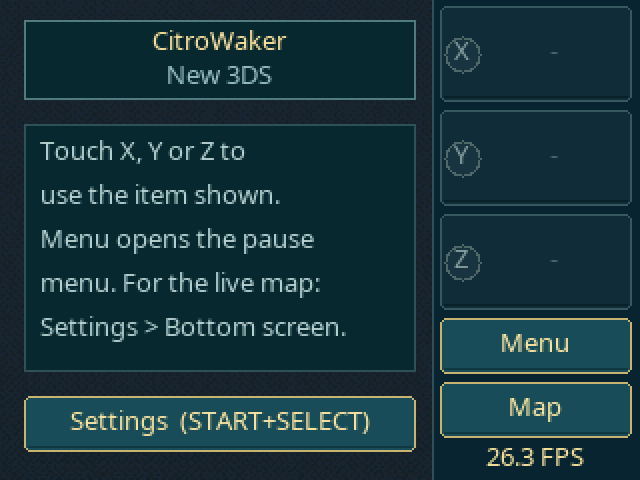
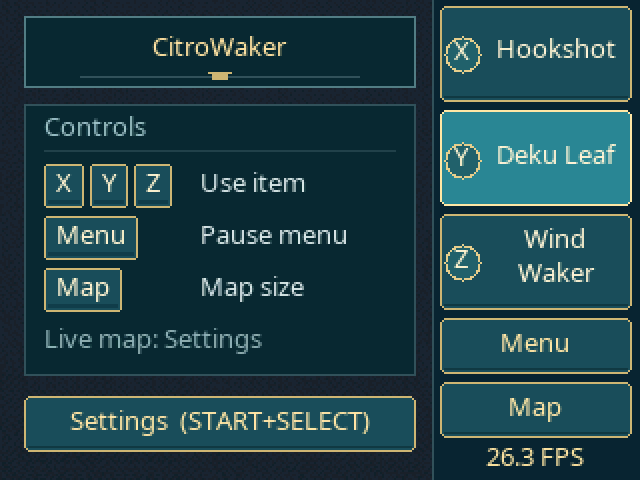
v139: allocator borrowing, bottom panel control legend, v138 console results

Changed region(s): [[0.0312, 0.0312, 0.6562, 0.7812], [0.6875, 0.0, 1.0, 0.6562]]

diff --git a/port/3ds/src/main_3ds.cpp b/port/3ds/src/main_3ds.cpp
@@ -132,7 +132,7 @@ int main(int, char**) {
     n3dsLog("[cpu-mode] New3DS speedup 1 requested clock/L2 3 service %08lx configure %08lx\n",(unsigned long)cpuServiceResult,(unsigned long)cpuConfigureResult);
   }else n3dsLog("[cpu-mode] New3DS check %08lx result %d\n",(unsigned long)cpuModelResult,int(cpuIsNew));
 
-  n3dsLog("[build] CitroWaker v138 (Claude): GX FIFO writers inlined in game code; frame-end busy loop replaced by one division; collision scans stop at the last used element; no zero-fill of fully written joint/pane matrices; bottom panel left side cached. v137: MTXConcat reads inputs once (bit-identical, ~3x fewer instructions), frame pointer omitted. v136: paint pacing paints whenever the renderer can (fractional budget on: ~40 ms frames give 25 fps, not 15). v135: settings menu saves on hardware (rename onto an existing file failed with ENOENT); bottom-screen touch panel (X/Y/Z items, Menu, Map, Settings) working in panel and live-map modes. v134: 3.5 MB more memory for the renderer (smaller game heaps, measured over 8 areas). v133: texture pack on by default, self-checking (switches off if slower than converting). v132: VRAM report for dropped shadow copies. v131: night-sky stars drawn as one batch (file select: ~2000 draws -> ~100) and visible again (3-vertex quads = one triangle, as on GameCube); text glyphs of a string share one draw. v130: real shadows back (a failed copy no longer skips its clear: no grey silhouettes). v129: title music no longer waits behind big disc loads (DVD reads by size, large reads in 256 KB pieces); live map frame hidden on top; round shadows by default (grey silhouette blobs). v128: fast allocator capped at 64 spans (4 MB) so long sessions keep heap for draw replay. v127: runtime textures; fractional pacing and rigid clip OFF by default: full-width telescope covers; replay cache trims under pressure; prior v122: matrix groups replay from the previous frame, texture checks once per frame, resident geometry by pointer, interned uniform names, compile-cache hash halved, matrix slot memo, moving collision skips plane re-classification on pure translations. v121: <=2 logic ticks per painted frame, no catch-up bursts, present hold off\n");
+  n3dsLog("[build] CitroWaker v139 (Claude): fast allocator borrows larger free blocks instead of falling back to the locked heap; bottom panel control legend; N3DS_AB_KNOBS console A/B. v138: GX FIFO writers inlined in game code; frame-end busy loop replaced by one division; collision scans stop at the last used element; no zero-fill of fully written joint/pane matrices; bottom panel left side cached. v137: MTXConcat reads inputs once (bit-identical, ~3x fewer instructions), frame pointer omitted. v136: paint pacing paints whenever the renderer can (fractional budget on: ~40 ms frames give 25 fps, not 15). v135: settings menu saves on hardware (rename onto an existing file failed with ENOENT); bottom-screen touch panel (X/Y/Z items, Menu, Map, Settings) working in panel and live-map modes. v134: 3.5 MB more memory for the renderer (smaller game heaps, measured over 8 areas). v133: texture pack on by default, self-checking (switches off if slower than converting). v132: VRAM report for dropped shadow copies. v131: night-sky stars drawn as one batch (file select: ~2000 draws -> ~100) and visible again (3-vertex quads = one triangle, as on GameCube); text glyphs of a string share one draw. v130: real shadows back (a failed copy no longer skips its clear: no grey silhouettes). v129: title music no longer waits behind big disc loads (DVD reads by size, large reads in 256 KB pieces); live map frame hidden on top; round shadows by default (grey silhouette blobs). v128: fast allocator capped at 64 spans (4 MB) so long sessions keep heap for draw replay. v127: runtime textures; fractional pacing and rigid clip OFF by default: full-width telescope covers; replay cache trims under pressure; prior v122: matrix groups replay from the previous frame, texture checks once per frame, resident geometry by pointer, interned uniform names, compile-cache hash halved, matrix slot memo, moving collision skips plane re-classification on pure translations. v121: <=2 logic ticks per painted frame, no catch-up bursts, present hold off\n");
   // (Claude) The game needs the New 3DS's 124 MB mode (the CIA's exheader asks for it; the HOME Menu applies it when it starts the title).
   // Started some other way the console can stay in the 64 MB mode, where the game's memory does not fit: relaunch this title once through
   // APT (the system switches modes when it has to), and if that did not help either, say so on the screen instead of freezing.
@@ -366,6 +366,8 @@ static uint8_t g_spanClass[2048];                     // (p - g_base) >> 16 -> c
 static std::atomic<unsigned> g_spans{0};
 static std::atomic<bool> g_on{false};
 std::atomic<unsigned long> g_fallbacks{0};
+static std::atomic<unsigned long> g_borrowed{0}, g_classFallbacks[kClasses];
+std::atomic<bool> g_borrowOn{true};   // (Claude v139) N3DS_AB_KNOBS switches it (gpu_3ds.cpp)   // (Claude v139) larger-class blocks handed out; fallbacks per class
 struct Cache { Block* head[kClasses] = {}; uint16_t n[kClasses] = {}; };
 static thread_local Cache t_cache;
 static inline int spanClassOf(const void* p) {
@@ -400,7 +402,22 @@ static inline void* alloc(size_t n) {
   if (!t.head[c]) {
     Central& C = g_central[c];
     LightLock_Lock(&C.lock); const bool ok = refill(c); LightLock_Unlock(&C.lock);
-    if (!ok) { g_fallbacks.fetch_add(1, std::memory_order_relaxed); return nullptr; }
+    if (!ok) {
+      // (Claude v139) span budget used up and this class empty: a free block of a larger class (up to 4x the size) instead of a
+      // locked newlib malloc. Exact: free() finds the class from the block's span, so the block goes back where it came from.
+      if (g_borrowOn.load(std::memory_order_relaxed)) for (int c2 = c + 1; c2 < kClasses && kSize[c2] <= 4 * kSize[c]; c2++) {
+        if (!t.head[c2]) {
+          Central& C2 = g_central[c2];
+          if (!C2.head && C2.bump + kSize[c2] > C2.end) continue;   // nothing there (unlocked peek; refill below re-checks)
+          LightLock_Lock(&C2.lock); const bool ok2 = refill(c2); LightLock_Unlock(&C2.lock);
+          if (!ok2) continue;
+        }
+        Block* b = t.head[c2]; t.head[c2] = b->next; t.n[c2]--;
+        g_borrowed.fetch_add(1, std::memory_order_relaxed);
+        return b;
+      }
+      g_fallbacks.fetch_add(1, std::memory_order_relaxed); g_classFallbacks[c].fetch_add(1, std::memory_order_relaxed); return nullptr;
+    }
   }
   Block* b = t.head[c]; t.head[c] = b->next; t.n[c]--;
   return b;
@@ -429,7 +446,14 @@ void n3dsFastAllocEnable(bool on, int maxSpans) {
   fa::g_on.store(true);
   n3dsLog("[fast-alloc] on: classes <= 1024 B, at most %u spans of 64 KB\n", fa::kFaMaxSpans);
 }
-void n3dsFastAllocLog() { n3dsLog("[fast-alloc] spans %u (%u KB), fallbacks %lu\n", fa::g_spans.load(), unsigned(fa::g_spans.load() * 64), fa::g_fallbacks.load()); }
+void n3dsFastAllocBorrow(bool on) { fa::g_borrowOn.store(on, std::memory_order_relaxed); }
+void n3dsFastAllocLog() {
+  unsigned perClass[fa::kClasses] = {};
+  for (uint8_t v : fa::g_spanClass) if (v) perClass[v - 1]++;
+  char cls[256]; int at = 0;
+  for (int c = 0; c < fa::kClasses; c++) at += std::snprintf(cls + at, sizeof cls - at, " %u:%u/%lu", unsigned(fa::kSize[c]), perClass[c], fa::g_classFallbacks[c].load());
+  n3dsLog("[fast-alloc] spans %u (%u KB), fallbacks %lu, borrowed %lu; size:spans/fallbacks%s\n", fa::g_spans.load(), unsigned(fa::g_spans.load() * 64), fa::g_fallbacks.load(), fa::g_borrowed.load(), cls);
+}
 extern "C" {
 // (Claude v86) the renderer's block pools (uniform blocks, event nodes) keep freed blocks; when newlib cannot satisfy a request they are handed back first
 void n3dsPoolsTrim(void);   // gpu_3ds.cpp

diff --git a/port/3ds/src/gpu_3ds.cpp b/port/3ds/src/gpu_3ds.cpp
@@ -74,7 +74,7 @@ extern "C" volatile unsigned g_n3dsShapeGen;   // (Claude v95) JKRHeap.cpp: mode
 extern "C" char* fake_heap_end;
 extern "C" { extern volatile int g_n3dsDlCensusOpen; void n3dsDlCensusWrite(const char*); }   // origin_prof_3ds.cpp (Claude v92)
 extern "C" void n3dsLockStatsLog(unsigned long frame); extern "C" void n3dsAllocSitesLog(unsigned long frame);   // main_3ds.cpp (Claude v74)
-void n3dsFastAllocEnable(bool on, int maxSpans = 0); void n3dsFastAllocLog();   // main_3ds.cpp (Claude v76)   // libctru: the end of the heap sbrk extends into
+void n3dsFastAllocEnable(bool on, int maxSpans = 0); void n3dsFastAllocLog(); void n3dsFastAllocBorrow(bool on);   // main_3ds.cpp (Claude v76)   // libctru: the end of the heap sbrk extends into
 static size_t brkRoom() { char* brk=(char*)sbrk(0); return brk && brk!=(char*)-1 && brk<fake_heap_end ? size_t(fake_heap_end-brk) : 0; }
 static uint64_t g_originTicks[2], g_originBytes[2], g_originDraws[2], g_originVerts[2], g_originCalls[2];
 static size_t g_minBrkRoom = ~size_t(0);   // lowest sbrk room seen by heapRoom since the last [pipeline] log
@@ -891,6 +891,14 @@ void n3dsGpuEndFrameLocal(void) {
   // (Claude v77) built-in A/B (auto_ab): both configurations give the same pixels; alternate them in 120-frame blocks so one play session measures both
   const int abSide=g_perf.autoAb?int((logFrame/120)&1):-1;
   // (Claude v83) the A/B switches nothing (see finishRecording); both blocks are logged
+  // (Claude v139) env N3DS_AB_KNOBS=1: console A/B of exact runtime options in one session, 300-frame phases cycling
+  // 0 = defaults, 1 = fast-alloc borrowing off, 2 = pack_vertex_major on, 3 = decode_overwrite on; "[ab-knobs]" lines
+  static const bool knobAb = std::getenv("N3DS_AB_KNOBS") != nullptr;
+  const int knob = knobAb ? int((logFrame / 300) % 4) : -1;
+  static const char* const kKnobNames[4] = {"defaults", "borrow off", "pack_vertex_major", "decode_overwrite"};
+  if (knob >= 0) { static int cur = -1;
+    if (knob != cur) { cur = knob; n3dsFastAllocBorrow(knob != 1); t2p::g_packVertexMajor = knob == 2 || g_perf.packVertexMajor;
+      t2p::g_decodedInitMode = (knob == 3 || g_perf.decodeOverwrite) ? 1 : 0; n3dsLog("[ab-knobs] frame %lu: config %d (%s)\n", (unsigned long)logFrame, knob, kKnobNames[knob]); } }
   if (g_r3dsTrace) g_r3dsTrace("end-frame: before renderFrame", 0);
   {   // (Claude v97) N3DS_AB_CYCLE: draw reuse switched here, on the render owner, between frames
     static int cur = -1; const int want = g_abDrawReuse.load();
@@ -918,6 +926,12 @@ void n3dsGpuEndFrameLocal(void) {
       for(int s=0;s<2;s++){const double n=abFrames[s]?abFrames[s]:1,m=abTimed[s]?abTimed[s]:1;
         n3dsLog("[ab] frame %lu side %d (%s): %u frames render %.2f present %.2f (%.2f fps) process %.2f ms; %u timed: build %.2f plan %.2f draw %.2f ms\n",(unsigned long)logFrame,s,s?"block B":"block A",abFrames[s],abRender[s]/n,abPresent[s]/n,abPresent[s]>0?1000.0*n/abPresent[s]:0.0,abProcess[s]/n,abTimed[s],abBuild[s]/m,abPlan[s]/m,abDraw[s]/m);}
     }
+  }
+  if (knob >= 0) {   // (Claude v139) per configuration: gameplay frames (100+ draws), the first 15 of each phase skipped
+    static double kP[4], kR[4], kQ[4]; static uint32_t kN[4];
+    if (F.draws >= 100 && logFrame % 300 >= 15 && presentMs > 0) { kP[knob] += presentMs; kR[knob] += renderMs; kQ[knob] += processMs; ++kN[knob]; }
+    if (logFrame % 1200 == 0) for (int s = 0; s < 4; s++) { const double n = kN[s] ? kN[s] : 1;
+      n3dsLog("[ab-knobs] frame %lu config %d (%s): %u frames present %.2f ms (%.2f fps) render %.2f process %.2f ms\n", (unsigned long)logFrame, s, kKnobNames[s], kN[s], kP[s] / n, kP[s] > 0 ? 1000.0 * n / kP[s] : 0.0, kR[s] / n, kQ[s] / n); }
   }
   if(presentMs>0){g_presentSum+=presentMs;++g_presentCount;g_presentMin=std::min(g_presentMin,presentMs);g_presentMax=std::max(g_presentMax,presentMs);}
   g_mem.frozen=false;

diff --git a/port/3ds/src/bottom_panel_3ds.h b/port/3ds/src/bottom_panel_3ds.h
@@ -111,8 +111,8 @@ inline void composeColumn(citro_settings::Canvas& c,const State& s){
     const int dy=pressed?1:0;
     if(i<3){
       badge(c,r.x+11,r.y+r.h/2+dy,keys[i],enabled);
-      const int tx=r.x+21,tw=r.w-23;
-      if(!has){c.center(tx,r.y+r.h/2-9+dy,tw,"-",0x52686c);continue;}
+      const int tx=r.x+23,tw=r.w-26;
+      if(!has){c.center(tx,r.y+r.h/2-9+dy,tw,"Empty",0x4d6569);continue;}
       char lines[2][40];const int n=wrap2(c,itemName(id),tw,lines);
       const unsigned col=enabled?0xfdf3d2:0x7d9397;
       if(n==1)c.center(tx,r.y+r.h/2-10+dy,tw,lines[0],col);
@@ -124,15 +124,33 @@ inline void composeColumn(citro_settings::Canvas& c,const State& s){
   if(s.fps)c.center(kGpuRows,221,320-kGpuRows,s.fpsText,0xffe6a3);
 }
 
+// A small key cap: rounded box around a label; returns its width.
+inline int keycap(citro_settings::Canvas& c,int x,int y,const char* label){
+  const int w=c.width(label)+12;
+  c.rect(x+1,y,w-2,22,0xc9b673);c.rect(x,y+1,w,20,0xc9b673);
+  c.rect(x+1,y+1,w-2,20,0x1d4f5c);c.rect(x+2,y+18,w-4,2,0x163f4a);
+  c.text(x+6,y+2,label,0xfff4cf,w);
+  return w;
+}
+
 // The left area for the CPU panel (no live map).
+// (Claude v139) header with an accent rule, a control legend of key caps instead of prose, one hint line, Settings button.
 inline void composeLeft(citro_settings::Canvas& c,const uint16_t* cloth,const State& s){
   for(int x=0;x<kGpuRows;++x)std::memcpy(c.pixels+x*240,cloth+x*240,240*2);
-  c.rect(12,10,196,40,0x0d2936);c.frame(12,10,196,40,0x547c85);
-  c.center(12,13,196,"CitroWaker",0xffe3a1);
-  c.center(12,30,196,"New 3DS",0x9dc1c6);
-  c.rect(12,62,196,124,0x0d2936);c.frame(12,62,196,124,0x30535d);
-  const char* lines[]={"Touch X, Y or Z to","use the item shown.","Menu opens the pause","menu. For the live map:","Settings > Bottom screen."};
-  for(int i=0;i<5;++i)c.text(20,68+i*22,lines[i],0xb9d2d4,184);
+  // header
+  c.rect(12,8,196,36,0x0d2936);c.frame(12,8,196,36,0x547c85);
+  c.center(12,16,196,"CitroWaker",0xffe3a1);
+  c.rect(40,38,140,1,0x30535d);for(int i=0;i<5;++i){const int h=i<3?i:4-i;c.rect(110-h,36+i,2*h+1,1,0xc9b673);}
+  // control legend
+  c.rect(12,52,196,136,0x0d2936);c.frame(12,52,196,136,0x30535d);
+  c.text(22,56,"Controls",0x9dc1c6,180);
+  c.rect(22,75,176,1,0x24434c);
+  const unsigned label=0xd7e6e6,dim=0x8fb0b4;
+  {int x=22;for(const char* k:{"X","Y","Z"}){x+=keycap(c,x,82,k)+3;}c.text(100,84,"Use item",label,104);}
+  keycap(c,22,108,"Menu");c.text(100,110,"Pause menu",label,104);
+  keycap(c,22,134,"Map");c.text(100,136,"Map size",label,104);
+  c.text(22,162,"Live map: Settings",dim,180);
+  // settings
   const bool enabled=true;   // the settings menu pauses the game itself: usable in any game state
   button(c,kSettingsButton,enabled,s.settingsPressed);
   c.center(kSettingsButton.x,kSettingsButton.y+5+(s.settingsPressed?1:0),kSettingsButton.w,"Settings  (START+SELECT)",enabled?0xffe6a4:0x7d9397);

diff --git a/docs/PERFORMANCE.md b/docs/PERFORMANCE.md
@@ -48,7 +48,13 @@ All exact (the game behaves the same; the GX command stream is byte-identical):
 | Model draw lists (`J3D-drawBuffer`) | 1.98 | 1.67 |
 | Painter | 5.42 | 4.86 |
 
-The time saved shows up as waiting at frame end for the renderer (`after-draw` 0.6 → 1.5 ms), so in this scene the renderer side is now the limit. Console result pending.
+The time saved shows up as waiting at frame end for the renderer (`after-draw` 0.6 → 1.5 ms), so in this scene the renderer side is now the limit.
+
+**Console (v138, heavy Outset gameplay):** still about 10–13 fps (80–100 ms per presented frame); light stretches reach 26–30 fps. Per heavy frame: GX decode ("process") 59–73 ms, renderer 72 ms (draw submission 48 ms), and the game thread waits 17–22 ms per painted tick for the decoder to finish. Both decode and render are about twice what 25 fps allows, so the game-thread savings alone do not show up on hardware yet.
+
+### v139: allocator fallbacks
+
+The console log showed the per-thread small-block allocator running out of its span budget once gameplay starts, after which 30,000–165,000 allocations per 60 frames went to newlib's locked heap; the heaviest windows had the most. v139 hands out a free block from a larger size class instead (exact: a block always returns to the class it came from). v139 also carries a one-session console A/B (`N3DS_AB_KNOBS=1`) for this and two other exact options. Console result pending.
 
 ## What has been tried
 
